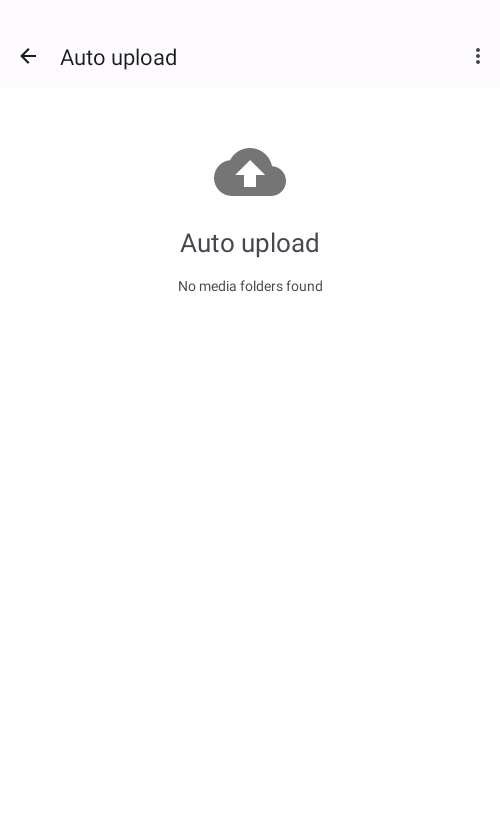
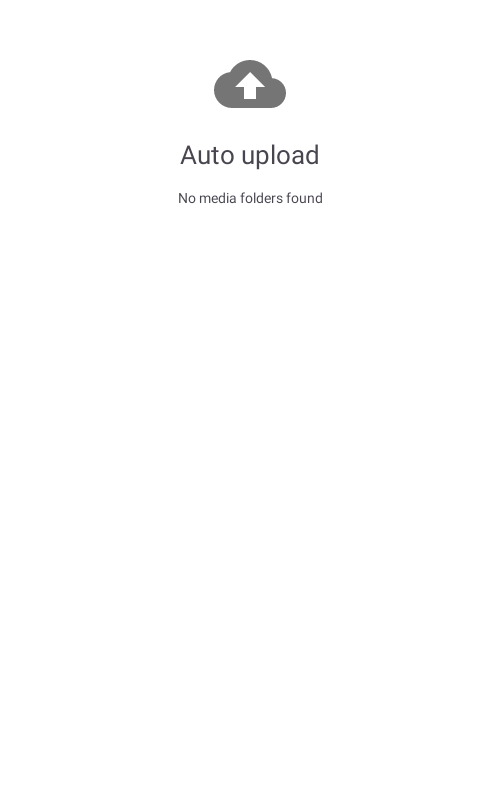
Add new ss tests

diff --git a/app/src/androidTest/java/com/owncloud/android/ui/fragment/FileDetailFragmentStaticServerIT.kt b/app/src/androidTest/java/com/owncloud/android/ui/fragment/FileDetailFragmentStaticServerIT.kt
@@ -154,7 +154,7 @@ class FileDetailFragmentStaticServerIT : AbstractIT() {
                 sut.fileDetailActivitiesFragment.populateList(activities as List<Any>?, true)
             }
             longSleep()
-            screenshot(this)
+            screenshot(sut.fileDetailActivitiesFragment.binding.swipeContainingList)
         }
     }
 
@@ -194,7 +194,7 @@ class FileDetailFragmentStaticServerIT : AbstractIT() {
 
         shortSleep()
         shortSleep()
-        screenshot(sut.fileDetailActivitiesFragment.binding.emptyList.emptyListView)
+        screenshot(activity)
     }
 
     @Test
